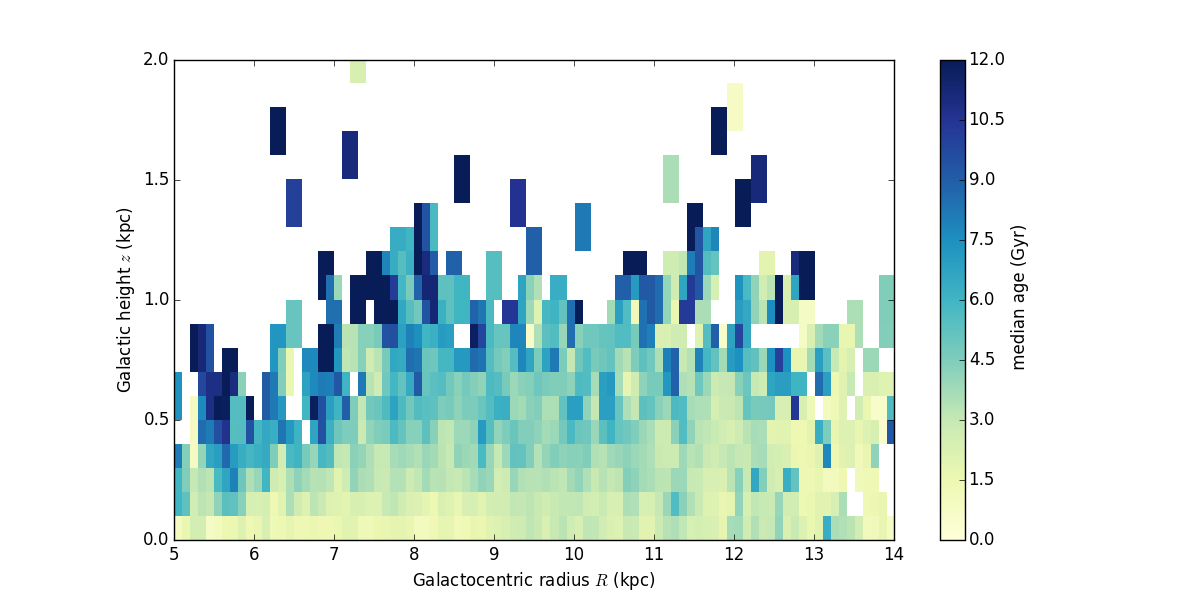
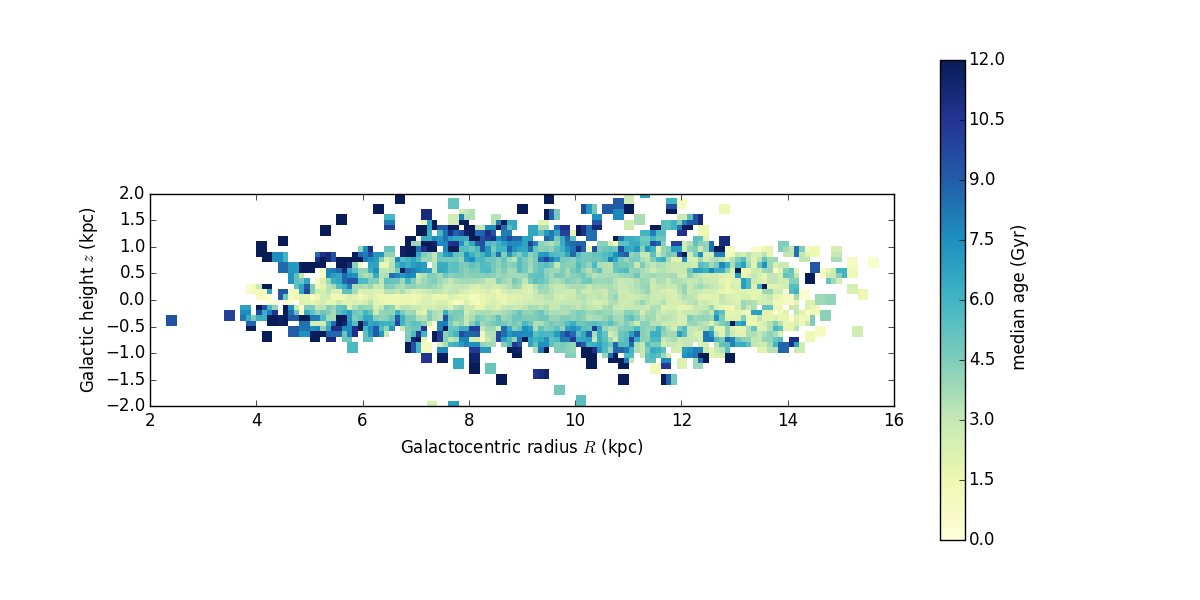
plots and ms

diff --git a/documents/mass_and_age/mass_and_age.tex b/documents/mass_and_age/mass_and_age.tex
@@ -448,27 +448,12 @@ In Figure \ref{fig:alphabins} the \apokasc\ set of reference stars used to train
 
 Thee input label for the inferred age is from the seismic scaling relations for these objects and the output label is derived from the inferred age from the mass label output by \tc\ in cross validation testing (the take star out test performed in Section X). In Figure \ref{fig:alphabins} a sampling of three of these bins and then all of the bins plotted together is shown, for the individual age label for each star, from \tc\ on the x-axis and from Kepler on the y-axis, minus the mean age value in age monoabundance bin. If there was no additional information in each of the monoabundance bins with respect to age, that is, if the age information was simply a reincarnation of the \alphafe\ label then there would be no expected correlation between the difference in \tc\ and Kepler and the mean age. That there is a 1:1 relation between these two axes reflects that \tc\ works mathematically to determine the mass label and that the mass label within a monoabundance bin carries additional information.
 
-% made in makealphamap3.py  in Apogee_ages after running plotdiff_5labels2
-% run -i /Users/ness/new_laptop/Apogee_ages/makealphamap4_logmass.py
-\begin{figure}[p!]
+% made in run -i makealphamap4_logmass_oneplot.py
+%  in Apogee_ages after running plotdiff_5labels2 or run -i  plotdiff_5labels_10percent_contour_copy.py
+\begin{figure}[h!]
 \centering
- \includegraphics[scale=0.45]{./plots/alpha_feh_bins3.pdf}
-    \caption{The \feh-\alphafe\ plane colored by mean age of the stars in each bin. The number of stars in each bin is indicated }
-\label{fig:alphabins}
-\end{figure}
-
-\begin{figure}[p!]
-\centering
- \includegraphics[scale=0.45]{./plots/alpha_feh_std3.pdf}
-    \caption{The \feh-\alphafe\ plane colored by standard deviation of the age of the stars in each bin. The number of stars in each bin is indicated }
-\label{fig:alphabins}
-\end{figure}
-
-% made in makealphamap4_logmass.py after running the plotdiff as above
-\begin{figure}[p!]
-\centering
- \includegraphics[scale=0.45]{./plots/Kepler_Cannon_diff.pdf}
-    \caption{The stars in Figure 8 individually subtracted from the mean age in their respective bin, showing correlation within the individual mono-abundance bins in the \alphafe-\feh\ plane. }
+ \includegraphics[scale=0.38]{./plots/alpha_feh_rc.pdf}
+    \caption{The \feh-\alphafe\ planes at left and centre colored by mean age of the stars in each bin at left,  and the age dispersion at centre, where the number of stars in each bin is indicated at left. The far right hand panel shows the stars in the \feh-\alphafe\ plane where the individual stars $i$ have been subtracted from the mean age in their respective bin, taking both the age from \tc\ and the age from Kepler. The panel on the far right shows the correlation in the input and output age label delivered by \tc\ in cross-validation within a narrow bin in abundance space.  }
 \label{fig:alphabins}
 \end{figure}
 
@@ -479,8 +464,6 @@ Thee input label for the inferred age is from the seismic scaling relations for 
 The \apogee\ sample comprises primarily red giant stars and a subset of  $\approx$ 20,000 red clump stars, identified by \citet{Bovy2014}. We take our model, trained using the reference \apokasc\ stars and determine the stellar parameters and masses for these red clump stars. which cover a radial extent of 6 -- 14 kpc and are located at heights $|z|$ $<$ 1.5 kpc. The red clump sample is a representative and unbiased sample of Milky Way disk stars located across a large radial extent and with an expected age distribution peaking at about 2 Gyr with a tail out to old ages (see Figure X of Bovy et al., 20XX). 
 
 In Figure \ref{fig:spectra}, the spectra of one of the red clump stars, showing a typical red clump spectra, is shown in the black line, for each of the wavelength regions for which the highest amplitude of the coefficients is shown (Figures \ref{fig:logg} -- \ref{fig:mass}).  This star has parameters returned with \tc\ of \teff\ = 4843 K, \logg\ = 2.5 dex, \feh\ = --0.06 dex, \alphafe\ = 0.04 and mass = 1.0 and the interpolated age using the PARSEC isochrones and red clump evolutionary state is 10.6 Gyrs. The data is shown in black, the synthesised spectra from the parameters of \tc\ for this star are in blue and the best fit model from the \apogee\ stellar parameters pipeline \aspcap\ is shown in red. The generated model from \tc\ provides a better fit to the data than the best fit synthetic model from available to \aspcap, demonstrating the 5-labels well describe the flux behaviour of the red clump sample stars the training sample. Note that one of the regions where \aspcap\ performs most poorly is the brackett line which is highly \logg\ sensitive. This may indicate a problem with the model stellar atmospheres or it's associated oscillator strength for this feature. 
-
-%t1,g1,feh1,alpha1,age1, mass1 = 4708.49983734, 2.17652168722, 0.0617198884138, 0.015425129037, 1.55488236009, 1.88141910392
 
 %run -i makeredclumpplot.py
 \begin{figure}[h!]
@@ -501,6 +484,15 @@ We provide the full age catalog for \apogee's red giant stars, in addition to th
 
 Figure \ref{fig:redclump} shows the mean age of the red clump stars in the \alphafe-\feh\ plane and the density distribution of these stars (top panels).  We select the low-alpha sequence only to examine the trends of the metallicity \feh\ as a function of radius for the low compared to the intermediate age stars. This selection is for all stars below the dashed line in the density Figure at top right. Presumably, in selection of these stars we are selecting stars along a single sequence of chemical enrichment history and we might expect differences in the distribution of \feh\ as a function of radius for this sequence as a function of age, due to Galaxy evolution processes. The box in the density map is for a small monoabundance population that we select for plotting the trends of inferred age and radius for a small region of chemical homogenity, as additionally demonstrative of the information within the age label, even within a narrow abundance space. 
 
+%run -i makealphafeh_imshow_3panel.py and readin_ages.py
+%run -i makealphafeh_imshow_4panel.py and readin_ages.py
+\begin{figure}[h!]
+\centering
+ \includegraphics[scale=0.5]{./plots/redclump_4panel.pdf}
+    \caption{The 20K red clump sample: low alpha sequence is broken up into radius and box is the mono-abundance distribution in later figure.}
+\label{fig:redclump}
+\end{figure}
+
 Examining now the metallicity distribution of the low-alpha sequence with radius, the bottom panels of Figure \ref{fig:redclump} compare the distribution of \feh\ for the XXX stars with ages $<$ 1 Gyrs, at left and the YYY stars with ages $>$ 5 Gyrs, at right. It is clear that the distribution $>$ doubles in width in both the radial direction and with \feh. The relationship between metallicity and radius is weaker for the older stars. Note that the apparent overdensity at about 8kpc across all \feh\ represents the Kepler field in the sample. That the \feh-radius correlation weakens with age likely reflects dynamical evolution processes in the Milky Way, such as radial migration, so that stars within this age range have been redistributed from their birth place, as a scattered weaker trend would imply. The youngest stars have been subject to much lesser dynamical timescales and more tightly traces the origin of their birthplace in the trend seen here between radius and \feh. The gradient measured for this population from a simple best fit straight line to this distribution at young ages $<$ 1 Gyr is XXX dex/kpc $\pm$ YY kpc. 
 
 \ldots MKN question: Should I fit a model to quantify the 2D age gradient to get median age as a function of (z,R) so we can write down an equation for the age of the red clump as a function of thees params? What form should this take - polynomial form ? 
@@ -514,13 +506,7 @@ For the red clump sequence we now show the maps of the median age of the stars a
 %Then predict the median age for any star in any region.
 
 
-%run -i makealphafeh_imshow_3panel.py and readin_ages.py
-\begin{figure}[p!]
-\centering
- \includegraphics[scale=0.4]{./plots/redclump_4panel.pdf}
-    \caption{The 20K red clump sample: low alpha sequence is broken up into radius and box is the mono-abundance distribution in later figure.}
-\label{fig:redclump}
-\end{figure}
+
 
 % made in /Users/ness/new_laptop/Apogee_ages/dwh/makeplots_mkn.py 
 \begin{figure}[p!]

diff --git a/code/makeredclumpplot.py b/code/makeredclumpplot.py
@@ -101,10 +101,13 @@ def plotstars(filein, wl, params,prefix,cent_wl1, cent_wl2,cent_wl3, cent_wl4,ce
       model_tc = makespec(t1,g1,feh1,alpha1,mass1 )
       #if indx == 0: 
       #  ax.plot(wl,model_aspcap, color='r', lw=lw,alpha = 0.5) 
+      lw2 = 1.
+      lw1 = 2.
+      lw2 = 2.
+      ax.plot(wl,data , color='k', lw=lw2,label = 'data') #, label=label)
       if indx == 1: 
-        ax.plot(wl,model_aspcap, color='r', lw=lw,alpha = 0.8, label= "ASPCAP model") 
-        ax.plot(wl,model_tc, color='b', lw=lw,alpha = 0.8, label = 'The Cannon model') 
-      ax.plot(wl,data , color='k', lw=lw,label = 'data') #, label=label)
+        ax.plot(wl,model_aspcap, color='r', lw=lw1,alpha = 0.8, label= "ASPCAP model", linestyle = 'dashdot') 
+        ax.plot(wl,model_tc, color='b', lw=lw1,alpha = 0.8, label = 'The Cannon model', linestyle = 'dashed')
       return None
 
   axes = [ ax1, ax2, ax3, ax4, ax5, ax6, ax7, ax8] 
@@ -221,5 +224,6 @@ cent_wlb = 16410.7 # second highest mass for _5
 #plotstars(file7, wl_star,params7, "/Users/ness/new_laptop/TheCannon/TheCannon/documents/mass_and_age/plots/spectra_fits_7", cent_wl1,cent_wl2,cent_wl3,cent_wl4,cent_wl5, cent_wl6, cent_wl7,cent_wl8, 14) 
 plotstars(file1, wl_star,params1, "/Users/ness/new_laptop/TheCannon/TheCannon/documents/mass_and_age/plots/spectra_fits_1", cent_wl1,cent_wl2,cent_wl3,cent_wl4,cent_wl5, cent_wl6, cent_wl7,cent_wl8, 14) 
 #plotstars(file2, wl_star,params2, "/Users/ness/new_laptop/TheCannon/TheCannon/documents/mass_and_age/plots/spectra_fits_2", cent_wl1,cent_wl2, cent_wl3, cent_wl4, cent_wl5, cent_wl6, cent_wl7,cent_wl8,14) 
-#plotstars(file7, wl_star,params7, "/Users/ness/new_laptop/TheCannon/TheCannon/documents/mass_and_age/plots/spectra_fits_7", cent_wl1,cent_wl2,cent_wl3,cent_wl4,cent_wl5, cent_wl6, cent_wl7,cent_wl8, 14) 
+plotstars(file7, wl_star,params7, "/Users/ness/new_laptop/TheCannon/TheCannon/documents/mass_and_age/plots/spectra_fits_7", cent_wl1,cent_wl2,cent_wl3,cent_wl4,cent_wl5, cent_wl6, cent_wl7,cent_wl8, 14) 
 #plotstars(file7, wl_star,params7, "/Users/ness/new_laptop/TheCannon/TheCannon/documents/mass_and_age/plots/spectra_fits_elem", cent_wl1,cent_wl2,cent_wl3,cent_wl4,cent_wl5, cent_wl6, cent_wla,cent_wlb, 14) 
+show() 

diff --git a/code/makeplots_mkn.py b/code/makeplots_mkn.py
@@ -77,17 +77,19 @@ if __name__ == "__main__":
 
     print "Making (R,z) grid..."
     # start magic number time
-    Rmin, Rmax = 5., 14. # kpc
-    zmin, zmax = 0.0, 2.0 # kpc
+    Rmin, Rmax = 2., 16. # kpc
+    Rmin, Rmax = 4., 15. # kpc
+    zmin, zmax = -5.0, 5.0 # kpc
+    zmin, zmax = -2.0, 2.0 # kpc
     dR = 0.1 # kpc
     (Rgrid, zgrid, Nstars, young_fracs,
      low_alpha_fracs, median_age,std_age, median_feh, median_alpha, median_age_low_alpha, median_age_high_alpha, median_age_mono) = make_grid(data[:, 2], Rmin, Rmax, dR,
-                                  abs(data[:, 4]), zmin, zmax, dR, data)
+                                  (data[:, 4]), zmin, zmax, dR, data)
 
     plt.figure(figsize=(12,6))
     plt.clf()
     imshow_kwargs = {"interpolation": "nearest",
-                     "aspect": 3.0,
+                     "aspect": 1.0,
                      "origin": "lower",
                      "extent": (Rmin, Rmax, zmin, zmax)}
     plt.imshow(young_fracs.T, cmap=plt.cm.YlGnBu, vmin=0., vmax=1.,

diff --git a/code/makealphafeh_imshow_3panel.py b/code/makealphafeh_imshow_3panel.py
@@ -1,3 +1,4 @@
+# run -i readin_ages first 
 def makeim(xval,yval,wval,rad, binnum):
   fs = 20
   hist1,x2,y2,temp = hist2d(xval, yval, weights = wval, bins= binnum,cmin = 5) 
